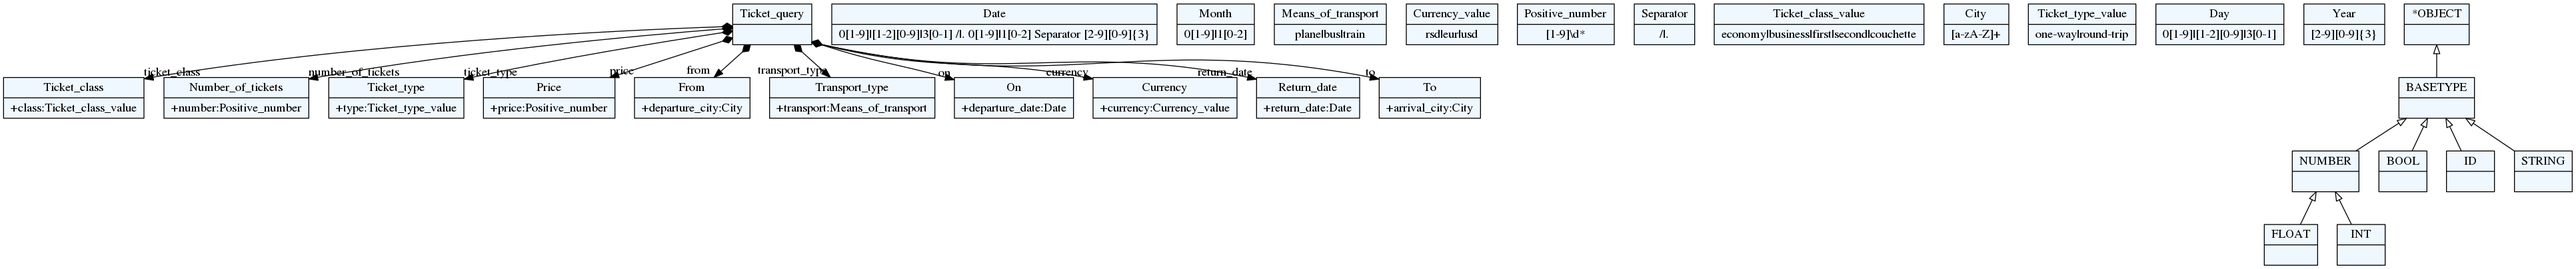
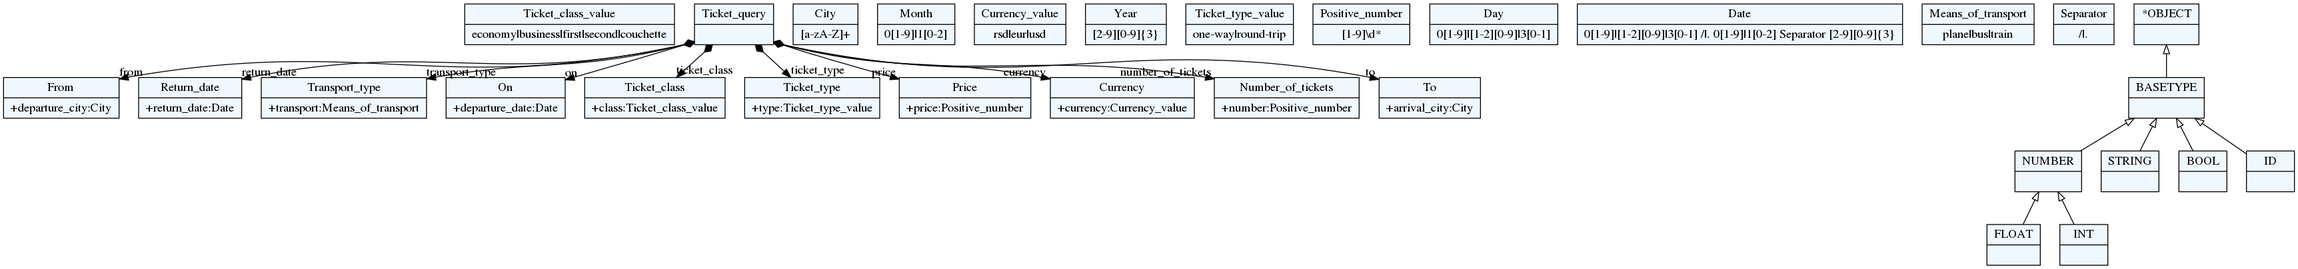
Preparing user ticket query for interpretation and making model. #6

diff --git a/core/templates/core/index.html b/core/templates/core/index.html
@@ -1,15 +1,24 @@
 {% extends 'core/base.html' %}
 
 {% block body %}
-    <div class="row">
+ <form method="post">
+    {% csrf_token %}
+    {% for field in form %}
+       <div class="row">
+           <div class="col-md-6 col-md-offset-3">
+            <label for="exampleFormControlTextarea" class = "text">  {{ field.label_tag }} </label>
+             {{ field }}
+            </div>
+       </div>
+    {% endfor %}
+     <div class="row">
         <div class="col-md-6 col-md-offset-3">
-            <label for="exampleFormControlTextarea" class = "text">Please describe desired ticket:</label>
-                <textarea class="form-control" id="exampleFormControlTextarea" rows="15"></textarea>
+          <button type="submit" class="btn btn-search btn-lg btn-block">Search</button>
+            <div class = "error">
+            {{ error_message }}
+            </div>
         </div>
     </div>
-    <div class="row">
-        <div class="col-md-6 col-md-offset-3">
-          <button type="button" class="btn btn-search btn-lg btn-block">Search</button>
-        </div>
-    </div>
+
+ </form>
 {% endblock %}

diff --git a/core/static/core/style.css b/core/static/core/style.css
@@ -24,4 +24,8 @@ textarea {
     background-color: #ffd700;
 }
 
+.error {
+  color: red;
+}
+
 

diff --git a/core/views.py b/core/views.py
@@ -1,5 +1,37 @@
 from django.shortcuts import render
+from django.views import View
+
+from core.forms import QueryForm
+
+from textx.exceptions import TextXSyntaxError
+import os
+from TransportTracker.settings import BASE_DIR
+from TransportTracker.execute.execute import execute_for_web
 
 
-def index(request):
-    return render(request, "core/index.html")
+class QueryFormView(View):
+    form_class = QueryForm
+    template_name = 'core/index.html'
+
+    def get(self, request):
+        form = self.form_class()
+        return render(request, self.template_name, {'form': form, 'error_message': ''})
+
+    def post(self, request):
+        form = self.form_class(request.POST)
+
+        query = request.POST['query'].lower()
+        query = " ".join(query.splitlines())
+
+        path = ""
+        if BASE_DIR.__contains__('/'):
+            path = BASE_DIR + "/TransportTracker"  # linux
+        else:
+            path = BASE_DIR + "\TransportTracker"  # windows
+
+        try:
+            model = execute_for_web(os.path.join(path, "grammar"), 'grammar.tx', query, True, True)
+        except TextXSyntaxError:
+            return render(request, self.template_name, {'form': form, 'error_message': 'Syntax error'})
+
+        return render(request, self.template_name, {'form': form, 'error_message': ''})

diff --git a/TransportTracker/execute/execute.py b/TransportTracker/execute/execute.py
@@ -19,9 +19,32 @@ def execute(path, grammar_file_name, example_file_name, export_dot, export_png):
 
     model_path = os.path.join(path, example_file_name)
     model_name = os.path.splitext(model_path)[0]
-
     model = metamodel.model_from_file(model_path)
 
+
+    if export_dot:
+        model_export(model, model_name + '.dot')
+    if export_png:
+        graph = pydot.graph_from_dot_file(model_name + '.dot')
+        graph[0].write_png(model_name + '.png')
+
+    return model
+
+
+def execute_for_web(path, grammar_file_name, query, export_dot, export_png):
+
+    meta_path = os.path.join(path, grammar_file_name)
+    meta_name = os.path.splitext(meta_path)[0]
+    metamodel = metamodel_from_file(meta_path)
+
+    if export_dot:
+        metamodel_export(metamodel, meta_name + '.dot')
+        if export_png:
+            graph = pydot.graph_from_dot_file(meta_name + '.dot')
+            graph[0].write_png(meta_name + '.png')
+
+    model = metamodel.model_from_str(query)
+    model_name = path + '/query'
 
     if export_dot:
         model_export(model, model_name + '.dot')

diff --git a/core/forms.py b/core/forms.py
@@ -1,0 +1,8 @@
+from django import forms
+
+
+class QueryForm(forms.Form):
+    query = forms.CharField(label='Please describe desired ticket', required=True,
+                            widget=forms.Textarea(attrs={'rows': 15, 'cols': 75, 'style': 'resize:none;'}))
+
+

diff --git a/core/urls.py b/core/urls.py
@@ -4,5 +4,5 @@ from . import views
 app_name = 'core'
 
 urlpatterns = [
-    url(r'^$', views.index, name="index"),
+    url(r'^$', views.QueryFormView.as_view(), name="index"),
 ]
